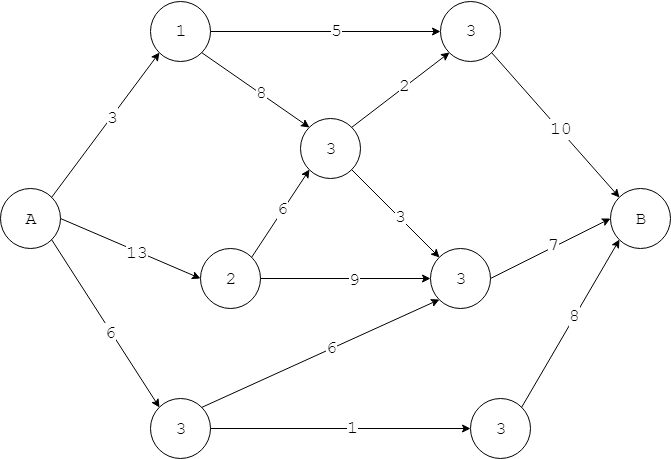
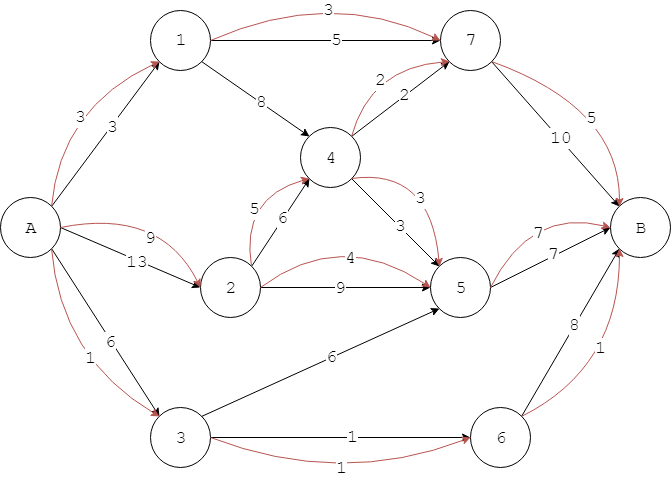
update flow network

diff --git a/docs/GraphTheory/README.md b/docs/GraphTheory/README.md
@@ -229,8 +229,7 @@ $$
 
 ![FlowNetworkKnowledgePoint1.png](FlowNetwork/res/KnowledgePoint1.png)
 
-如上图所示，每条边的数字表示每天最多运送的货物数量，假设城市$$ A $$每天产生的货物数量无穷多，城市$$ B $$每天能够消费的货物数量无穷多。
-
+上图是一个有向图$$ DG = <V,E> $$，假设城市$$ A $$每天产生的货物数量无穷多，城市$$ B $$每天能够消费的货物数量无穷多，每条边的数字表示该公路每天最多运送的货物数量，每个弧的数字表示当整个运输网络充满时该公路实际每天运送的货物数量（显然充满整个运输网络可以有多种解）。
 
 --------
 
